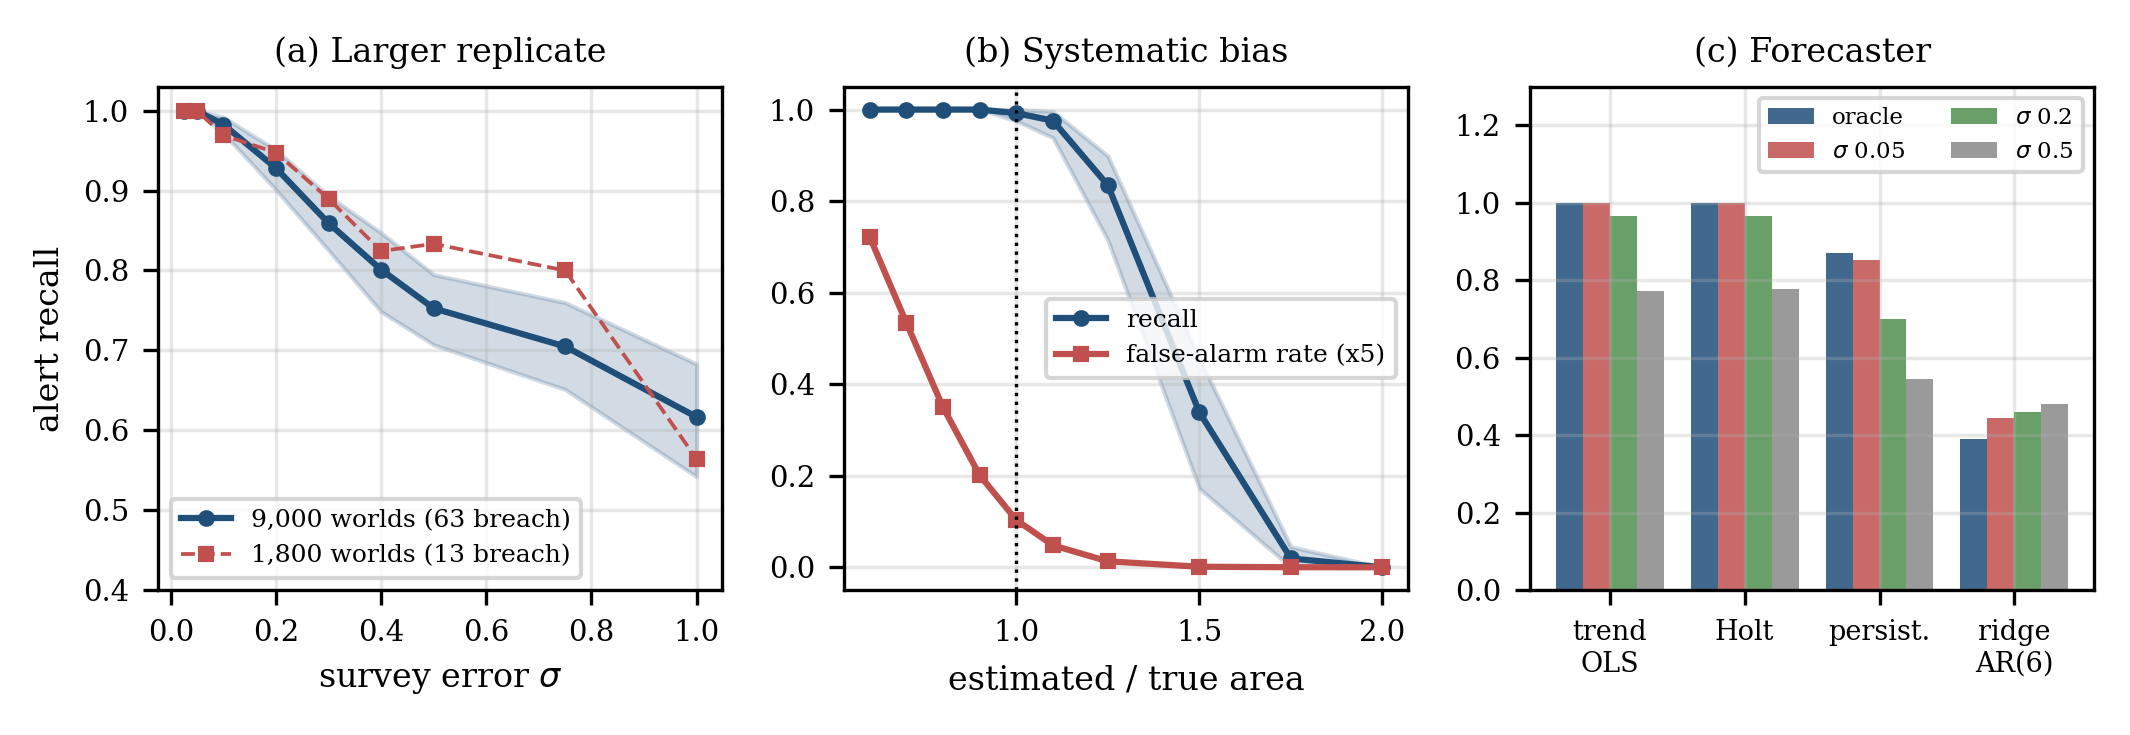
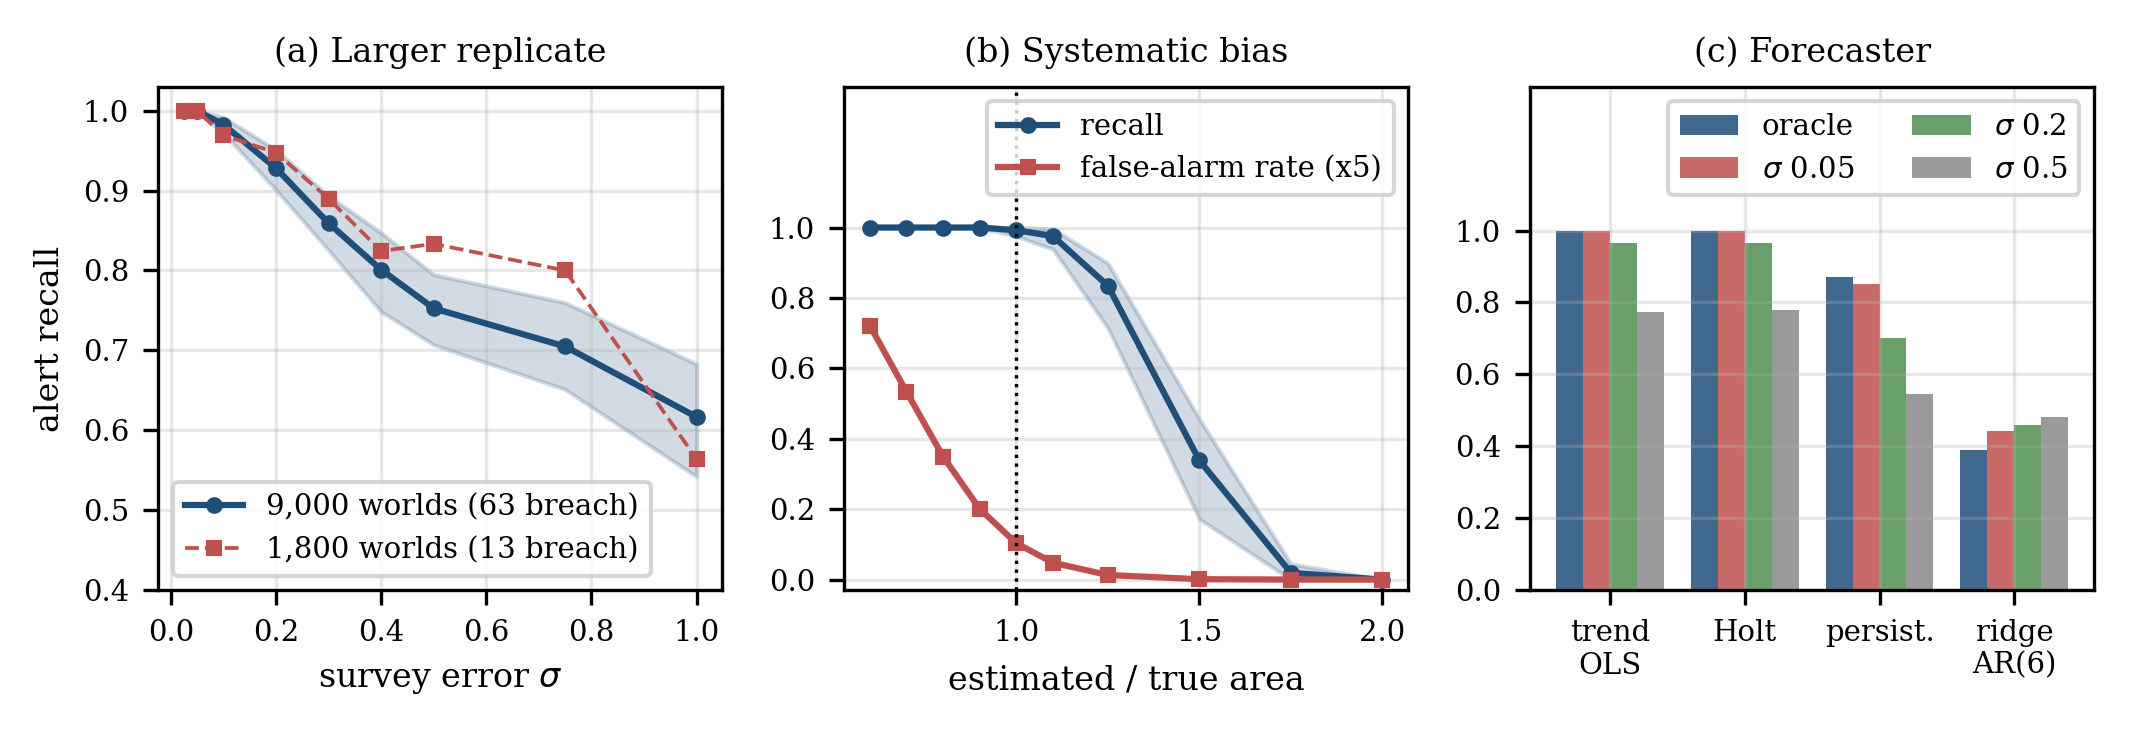
Add event-level, matched-baseline, and risk-controlled experiments; update figures
extended_experiments3.py scores event detection with exact intervals, the
false-alarm burden, a matched-false-alarm safety factor, a conformal
risk-controlled factor, and prior-based estimates on the 9,000-world replicate.
Figure fonts raised for print size.

diff --git a/extended_experiments3.py b/extended_experiments3.py
@@ -1,0 +1,188 @@
+#!/usr/bin/env python3
+"""Third batch (IEEE Access revision, answering reviewer-style objections).
+
+    python3 extended_experiments3.py [--jobs N]
+
+Uses the 9,000-world replicate (4,500 test worlds, 63 breach worlds), zone
+RJK-Z02, h = 10 min, five survey draws per world and survey error.
+
+Policies compared at each survey error sigma:
+  conformal   alert when forecast + q > estimated capacity (q: 0.90 split-conformal margin)
+  safety      alert when forecast > kappa * estimated capacity; kappa chosen on the
+              calibration worlds so its minute-level false-alarm rate equals the
+              conformal policy's calibration false-alarm rate (matched operating point)
+  crc         alert when forecast > kappa * estimated capacity; kappa chosen on the
+              calibration worlds, with their own survey draws, by conformal risk
+              control so that the expected fraction of violation minutes missed in a
+              breach world is <= beta = 0.10 (finite-sample corrected)
+  prior       conformal policy but with the design area A0 instead of a survey (sigma n/a)
+  even        conformal policy with the even-split area (the paper's unsurveyed level)
+Metrics (test worlds): minute-level recall and FAR; event detection (any alert in
+the 40 min before the first violation minute) with exact Clopper-Pearson interval;
+median lead time; share of breach-free days with >=1 alert; mean alert minutes per
+breach-free day; and the same with a 3-consecutive-minute debounce.
+Writes results/extended3_event_metrics.csv and extended3_breach_population.csv.
+"""
+from __future__ import annotations
+import argparse, os, sys
+import numpy as np, pandas as pd
+from scipy.stats import beta as beta_dist
+
+HERE = os.path.dirname(os.path.abspath(__file__))
+sys.path.insert(0, HERE)
+from sim import arrivals as arr, zones as zn  # noqa: E402
+import extended_experiments as E1  # noqa: E402
+from extended_experiments import ZONE, simulate, trend_predictions  # noqa: E402
+
+H, RHO, W, BETA = 10, zn.DENSITY_THRESHOLD_PERSONS_PER_M2, 40, 0.10
+KAPPAS = np.round(np.arange(0.30, 1.30, 0.01), 2)
+EVEN = sum(zn.nominal_areas().values()) / len(zn.ZONES)
+A0 = zn.nominal_areas()[ZONE]
+SIG = [0.05, 0.1, 0.2, 0.3, 0.5]
+
+
+def clopper_pearson(k, n, a=0.05):
+    lo = 0.0 if k == 0 else beta_dist.ppf(a / 2, k, n - k + 1)
+    hi = 1.0 if k == n else beta_dist.ppf(1 - a / 2, k + 1, n - k)
+    return float(lo), float(hi)
+
+
+def debounce(al, k=3):
+    if k <= 1:
+        return al
+    c = np.convolve(al.astype(int), np.ones(k, dtype=int), mode="full")[: len(al)]
+    return c >= k
+
+
+class WorldData:
+    def __init__(self, w):
+        p, a = trend_predictions(w["series"][ZONE], H)
+        self.p, self.a = p, a
+        self.cap = RHO * w["true_area"]
+        self.viol = a > self.cap
+        self.breach = bool(self.viol.any())
+        # first violation minute in alert-time index (alert at t refers to t+H)
+        self.V = int(np.argmax(self.viol)) if self.breach else -1
+        self.est = w["est_area"]            # [len(SIGMAS), 5]
+        self.true_area = w["true_area"]
+
+
+def minute_counts(wd, al):
+    v = wd.viol
+    return (int((al & v).sum()), int((al & ~v).sum()), int((~al & ~v).sum()), int((~al & v).sum()))
+
+
+def evaluate(test, alert_fn, k):
+    """alert_fn(wd, draw) -> bool mask. returns metrics dict."""
+    tp = fp = tn = fn = 0
+    det, lead, nb, fday, fmin = [], [], 0, 0, 0
+    det1 = []
+    n_draw = 5
+    for wd in test:
+        for d in range(n_draw):
+            al = debounce(alert_fn(wd, d), k)
+            a, b, c, e = minute_counts(wd, al)
+            tp += a; fp += b; tn += c; fn += e
+            if wd.breach:
+                lo = max(0, wd.V - W)
+                hit = np.flatnonzero(al[lo:wd.V])
+                det.append(bool(len(hit)))
+                if len(hit):
+                    lead.append(wd.V - (lo + hit[0]))
+                if d == 0:
+                    det1.append(bool(len(hit)))
+            else:
+                nb += 1; fday += int(al.any()); fmin += int(al.sum())
+    k1, n1 = sum(det1), len(det1)
+    lo, hi = clopper_pearson(k1, n1)
+    return {"recall_min": tp / (tp + fn) if tp + fn else np.nan, "far_min": fp / (fp + tn),
+            "detect_rate": float(np.mean(det)), "detect_k": k1, "detect_n": n1,
+            "detect_cp_lo": lo, "detect_cp_hi": hi,
+            "median_lead_min": float(np.median(lead)) if lead else np.nan,
+            "free_days_alerted": fday / nb, "alert_min_per_free_day": fmin / nb}
+
+
+def kappa_counts(cal, getarea, d):
+    """per kappa: minute FAR and per-breach-world miss-fraction mean (for CRC)."""
+    fp = np.zeros(len(KAPPAS)); tn = np.zeros(len(KAPPAS))
+    miss_sum = np.zeros(len(KAPPAS)); nb = 0
+    for wd in cal:
+        thr = RHO * getarea(wd, d)
+        r = wd.p / thr
+        rv, rn = np.sort(r[wd.viol]), np.sort(r[~wd.viol])
+        # alert iff r > kappa
+        fpk = len(rn) - np.searchsorted(rn, KAPPAS, side="right")
+        fp += fpk; tn += len(rn) - fpk
+        if wd.breach:
+            nb += 1
+            hit = len(rv) - np.searchsorted(rv, KAPPAS, side="right")
+            miss_sum += 1.0 - hit / len(rv)
+    return fp / (fp + tn), miss_sum, nb
+
+
+def main():
+    ap = argparse.ArgumentParser()
+    ap.add_argument("--jobs", type=int, default=max(1, (os.cpu_count() or 2) - 2))
+    ap.add_argument("--out", default=os.path.join(HERE, "results"))
+    args = ap.parse_args()
+    os.makedirs(args.out, exist_ok=True)
+
+    big = simulate(9000, 3.0, args.jobs, [ZONE])
+    wds = [(w["split"], WorldData(w)) for w in big]
+    cal = [x for s, x in wds if s == "calibration"]
+    test = [x for s, x in wds if s == "test"]
+
+    # conformal margin from calibration worlds
+    res = np.concatenate([np.abs(x.a - x.p) for x in cal]); res.sort()
+    q = float(res[int(np.ceil((len(res) + 1) * 0.9)) - 1])
+
+    # breach-population facts
+    tb = [x for x in test if x.breach]
+    pop = pd.DataFrame([{"n_test_worlds": len(test), "n_breach_worlds": len(tb),
+                         "mean_true_capacity_all": float(np.mean([x.cap for x in test])),
+                         "mean_true_capacity_breach": float(np.mean([x.cap for x in tb])),
+                         "min_true_capacity_breach": float(min(x.cap for x in tb)),
+                         "max_true_capacity_breach": float(max(x.cap for x in tb)),
+                         "median_breach_minutes": float(np.median([x.viol.sum() for x in tb])),
+                         "margin_q": q}])
+    pop.to_csv(os.path.join(args.out, "extended3_breach_population.csv"), index=False)
+
+    rows = []
+    def add(name, sg, k, m):
+        rows.append({"policy": name, "sigma": sg, "debounce_k": k, **m})
+
+    for k in (1, 3):
+        add("conformal (oracle geometry)", 0.0, k, evaluate(test, lambda wd, d: (wd.p + q) > RHO * wd.true_area, k))
+        add("prior design area A0", np.nan, k, evaluate(test, lambda wd, d: (wd.p + q) > RHO * A0, k))
+        add("even split (paper P0)", np.nan, k, evaluate(test, lambda wd, d: (wd.p + q) > RHO * EVEN, k))
+
+    for sg in SIG:
+        si = E1.SIGMAS.index(sg)
+        area = lambda wd, d, si=si: wd.est[si][d]
+        # calibration FAR of the conformal policy
+        fp = tn = 0
+        for wd in cal:
+            for d in range(5):
+                al = (wd.p + q) > RHO * area(wd, d)
+                fp += int((al & ~wd.viol).sum()); tn += int((~al & ~wd.viol).sum())
+        far_target = fp / (fp + tn)
+        # matched-FAR safety factor and CRC kappa, averaged over the five calibration draws
+        far_k = np.zeros(len(KAPPAS)); miss_k = np.zeros(len(KAPPAS)); nb = 0
+        for d in range(5):
+            f, m, nb_d = kappa_counts(cal, area, d)
+            far_k += f / 5; miss_k += m; nb += nb_d
+        kap_safety = float(KAPPAS[np.argmin(np.abs(far_k - far_target))])
+        # CRC: smallest-alert kappa (largest) s.t. (sum miss + 1)/(nb + 1) <= BETA
+        crc_ok = (miss_k + 1.0) / (nb + 1.0) <= BETA
+        kap_crc = float(KAPPAS[crc_ok][-1]) if crc_ok.any() else float(KAPPAS[0])
+        for k in (1, 3):
+            add("conformal margin", sg, k, evaluate(test, lambda wd, d: (wd.p + q) > RHO * area(wd, d), k))
+            add("safety factor (matched FAR)", sg, k, evaluate(test, lambda wd, d: wd.p > kap_safety * RHO * area(wd, d), k) | {"kappa": kap_safety})
+            add("risk-controlled kappa (CRC, beta=0.10)", sg, k, evaluate(test, lambda wd, d: wd.p > kap_crc * RHO * area(wd, d), k) | {"kappa": kap_crc})
+        print("sigma", sg, "kappa safety", kap_safety, "crc", kap_crc, flush=True)
+    pd.DataFrame(rows).assign(margin_q=q).to_csv(os.path.join(args.out, "extended3_event_metrics.csv"), index=False)
+    print("E11 done")
+
+
+if __name__ == "__main__":
+    main()

diff --git a/analysis/make_extended_figures.py b/analysis/make_extended_figures.py
@@ -45,7 +45,7 @@ for col, sg in zip(C, (0.05, 0.2, 0.5)):
             pass
         if sg == 0.2:
             ax.annotate(f"{r.coverage:.2f}", (r.far, r.recall), textcoords="offset points",
-                        xytext=(4, -9), fontsize=6)
+                        xytext=(4, -9), fontsize=7)
 ax.set_xscale("symlog", linthresh=0.01)
 ax.set_xlabel("false-alarm rate (symlog)"); ax.set_ylabel("alert recall")
 ax.set_xlim(right=1.8)
@@ -72,8 +72,8 @@ for i, (peak, col) in enumerate(zip((2.5, 3.0, 3.5), C)):
     n = int(sub.n_breach_worlds.iloc[0])
     ax[1].bar([j + (i - 1) * w for j in range(5)], sub.recall, w, color=col, alpha=0.85,
               label=f"peak {peak} groups/min ({n} breach world{'s' if n != 1 else ''})")
-ax[1].set_xticks(range(5)); ax[1].set_xticklabels([l for _, l in labs], fontsize=6.5)
-ax[1].set_ylabel("alert recall"); ax[1].set_ylim(0, 1.5); ax[1].legend(loc="upper right", fontsize=6)
+ax[1].set_xticks(range(5)); ax[1].set_xticklabels([l for _, l in labs], fontsize=7)
+ax[1].set_ylabel("alert recall"); ax[1].set_ylim(0, 1.4); ax[1].set_yticks([0, 0.2, 0.4, 0.6, 0.8, 1.0]); ax[1].legend(loc="upper right", fontsize=7)
 ax[1].set_title("(b) Recall under three demand levels")
 fig.tight_layout(); fig.savefig(os.path.join(FIG, "ext_coverage_demand.png"), dpi=300); plt.close(fig)
 print("ok")
@@ -101,7 +101,7 @@ ax[0].axhline(orc.recall, color="k", ls="--", lw=0.8, label="oracle (true geomet
 ax[1].axhline(orc.false_alarm_rate, color="k", ls="--", lw=0.8, label="oracle (true geometry)")
 for a, yl, t in ((ax[0], "alert recall", "(a) Recall"), (ax[1], "false-alarm rate", "(b) False-alarm rate")):
     a.set_xticks(range(4)); a.set_xticklabels(names); a.set_ylabel(yl); a.set_title(t)
-ax[1].legend(loc="upper right", fontsize=6.5)
+ax[1].legend(loc="upper right", fontsize=7)
 fig.tight_layout(); fig.savefig(os.path.join(FIG, "ext_policy_comparison.png"), dpi=300); plt.close(fig)
 
 # ---- second batch: large replicate, bias, forecasters ----
@@ -115,18 +115,18 @@ ax[0].fill_between(lr.sigma, lr.recall_lo, lr.recall_hi, color=C[0], alpha=0.2)
 ax[0].plot(lr.sigma, lr.recall, "o-", color=C[0], ms=3, label="9,000 worlds (63 breach)")
 ax[0].plot(s1.sigma, s1.recall, "s--", color=C[1], ms=3, lw=0.9, label="1,800 worlds (13 breach)")
 ax[0].set_xlabel(r"survey error $\sigma$"); ax[0].set_ylabel("alert recall"); ax[0].set_ylim(0.4, 1.03)
-ax[0].legend(loc="lower left", fontsize=6); ax[0].set_title("(a) Larger replicate")
+ax[0].legend(loc="lower left", fontsize=7); ax[0].set_title("(a) Larger replicate")
 ax[1].plot(bi.area_factor, bi.recall, "o-", color=C[0], ms=3, label="recall")
 ax[1].fill_between(bi.area_factor, bi.recall_lo, bi.recall_hi, color=C[0], alpha=0.2)
 ax[1].plot(bi.area_factor, bi.far * 5, "s-", color=C[1], ms=3, label="false-alarm rate (x5)")
 ax[1].axvline(1.0, color="k", ls=":", lw=0.8)
-ax[1].set_xlabel("estimated / true area"); ax[1].set_title("(b) Systematic bias"); ax[1].legend(loc="center right", fontsize=6)
+ax[1].set_xlabel("estimated / true area"); ax[1].set_title("(b) Systematic bias"); ax[1].set_ylim(-0.03, 1.4); ax[1].set_yticks([0, 0.2, 0.4, 0.6, 0.8, 1.0]); ax[1].legend(loc="upper right", fontsize=7)
 order = ["trend OLS (paper)", "Holt linear", "persistence", "ridge AR(6)"]
 lab = ["trend\nOLS", "Holt", "persist.", "ridge\nAR(6)"]
 w = 0.2
 for i, (sv, col) in enumerate(zip(("oracle", "sigma 0.05", "sigma 0.2", "sigma 0.5"), (*C, "#888888"))):
     v = [fc[(fc.forecaster == f) & (fc.survey == sv)].recall.iloc[0] for f in order]
     ax[2].bar([j + (i - 1.5) * w for j in range(4)], v, w, color=col, alpha=0.85, label=sv.replace("sigma", r"$\sigma$"))
-ax[2].set_xticks(range(4)); ax[2].set_xticklabels(lab, fontsize=6.5); ax[2].set_ylim(0, 1.3)
-ax[2].set_title("(c) Forecaster"); ax[2].legend(loc="upper right", fontsize=5.5, ncol=2)
+ax[2].set_xticks(range(4)); ax[2].set_xticklabels(lab, fontsize=7); ax[2].set_ylim(0, 1.4); ax[2].set_yticks([0, 0.2, 0.4, 0.6, 0.8, 1.0])
+ax[2].set_title("(c) Forecaster"); ax[2].legend(loc="upper right", fontsize=7, ncol=2)
 fig.tight_layout(); fig.savefig(os.path.join(FIG, "ext2_replicate_bias_forecasters.png"), dpi=300); plt.close(fig)

diff --git a/README.md b/README.md
@@ -88,3 +88,7 @@ conformal coverage check, and three peak-demand scenarios, on the same 1,800 wor
 Second batch (about three minutes): `python3 extended_experiments2.py` writes `results/extended2_*.csv`
 (a 9,000-world replicate, systematic and heavy-tailed survey error, four forecasters, calibration shift);
 rerun `analysis/make_extended_figures.py` afterwards.
+
+Third batch (about three minutes): `python3 extended_experiments3.py` writes `results/extended3_*.csv`
+(event-level detection with exact intervals, false-alarm burden, a matched-false-alarm safety factor, a
+risk-controlled factor, and the prior and even-split estimates, on the 9,000-world replicate).
